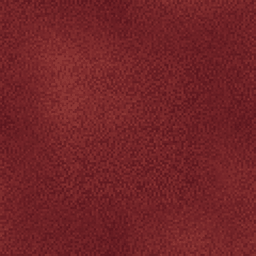
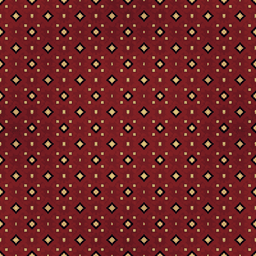
세계 지도 다시 그린 4장 적용 (0.52.123): 실베르 frozenMud 땅 결 넣음 · leafPath·carpet 자르기 없이 그대로 · 철길 한 줄 그림으로 railTrack

diff --git a/apps/client/src/patchNotes/latest.ts b/apps/client/src/patchNotes/latest.ts
@@ -7,9 +7,9 @@ export const NOTES: PatchNote[] = [
     version: "0.52.123",
     date: "2026-11-14",
     items: {
-      ko: ["세계 지도(시험 중): 건물 안 그림 적용 — 나무·돌·철판 바닥 · 회벽·돌벽 · 붉은 카펫 · 침대·탁자·책장·벽난로·왕좌·긴 식탁·갑옷·기둥·술통·화분·계산대·진열장·무기 걸이·허수아비 (성채·궁전은 돌벽, 공방은 철판, 비르디아 성은 흰 돌바닥, 헬리오스 술집은 술집 나무 바닥·둥근 탁자·바 카운터·돌 벽난로)", "테라코어: 도시 바닥 기름 묻은 돌길·바깥 길 붉은 벽돌·철길 그림 · 광장 가스 가로등과 공장 마당 톱니 기계·증기 탱크·크레인·경비 로봇·파이프·상자 · 역 열차 칸", "비르디아: 성채가 엘프 성 그림으로 · 낙엽 땅 길·맑은 샘물 · 깊은 숲에 빛나는 버드나무 · 성 안 뜰 랜턴 기둥·빛나는 버섯·수풀·꽃 덤불 · 헬리오스 황금 분수·검은 제단·황제 석상 그림"],
-      en: ["World Map (testing): interior art — wood, stone and steel floors · plaster and stone walls · red carpets · beds, tables, bookshelves, fireplaces, thrones, a banquet table, armor stands, pillars, barrels, potted plants, counters, display shelves, weapon racks and dummies (stone walls in keeps and palaces, steel in the workshop, white stone in Virdia's castle, and tavern floorboards, round tables, a bar counter and a stone fireplace in the Helios tavern)", "Terracore: oily cobblestone city streets, red brick roads and railway art · gas street lamps on the square and gear machines, steam tanks, cranes, guard robots, pipes and crates in the factory yards · a cargo car at the station", "Virdia: the keep is now an elven castle · leafy paths and a clear spring · glowing willows in the deep forest · lantern posts, glowing mushrooms, ferns and flowering bushes in the castle grounds · Helios golden fountains, the black altar and the emperor statue now use art"],
-      ja: ["世界地図（テスト中）：建物の中の絵を適用 — 木・石・鉄板の床・漆喰と石の壁・赤いカーペット・ベッド・テーブル・本棚・暖炉・玉座・長い食卓・鎧・柱・酒樽・鉢植え・カウンター・陳列棚・武器掛け・かかし（城館・宮殿は石の壁、工房は鉄板、ヴィルディアの城は白い石の床、ヘリオスの酒場は酒場の木の床・丸テーブル・バーカウンター・石の暖炉）", "テラコア：街の床は油じみた石畳・外の道は赤レンガ・線路の絵・広場のガス灯と工場の庭の歯車機械・蒸気タンク・クレーン・警備ロボット・パイプ・木箱・駅の貨車", "ヴィルディア：城館がエルフの城の絵に・落ち葉の道・澄んだ泉・深い森に光る柳・城の庭のランタン柱・光るキノコ・シダ・花の茂み・ヘリオスの黄金の噴水・黒い祭壇・皇帝像の絵"],
+      ko: ["세계 지도(시험 중): 건물 안 그림 적용 — 나무·돌·철판 바닥 · 회벽·돌벽 · 붉은 카펫 · 침대·탁자·책장·벽난로·왕좌·긴 식탁·갑옷·기둥·술통·화분·계산대·진열장·무기 걸이·허수아비 (성채·궁전은 돌벽, 공방은 철판, 비르디아 성은 흰 돌바닥, 헬리오스 술집은 술집 나무 바닥·둥근 탁자·바 카운터·돌 벽난로)", "테라코어: 도시 바닥 기름 묻은 돌길·바깥 길 붉은 벽돌·철길 그림 · 광장 가스 가로등과 공장 마당 톱니 기계·증기 탱크·크레인·경비 로봇·파이프·상자 · 역 열차 칸", "비르디아: 성채가 엘프 성 그림으로 · 낙엽 땅 길·맑은 샘물 · 깊은 숲에 빛나는 버드나무 · 성 안 뜰 랜턴 기둥·빛나는 버섯·수풀·꽃 덤불 · 헬리오스 황금 분수·검은 제단·황제 석상 그림 · 실베르 얼어붙은 진흙 땅 그림"],
+      en: ["World Map (testing): interior art — wood, stone and steel floors · plaster and stone walls · red carpets · beds, tables, bookshelves, fireplaces, thrones, a banquet table, armor stands, pillars, barrels, potted plants, counters, display shelves, weapon racks and dummies (stone walls in keeps and palaces, steel in the workshop, white stone in Virdia's castle, and tavern floorboards, round tables, a bar counter and a stone fireplace in the Helios tavern)", "Terracore: oily cobblestone city streets, red brick roads and railway art · gas street lamps on the square and gear machines, steam tanks, cranes, guard robots, pipes and crates in the factory yards · a cargo car at the station", "Virdia: the keep is now an elven castle · leafy paths and a clear spring · glowing willows in the deep forest · lantern posts, glowing mushrooms, ferns and flowering bushes in the castle grounds · Helios golden fountains, the black altar and the emperor statue now use art · frozen mud ground art in Silber"],
+      ja: ["世界地図（テスト中）：建物の中の絵を適用 — 木・石・鉄板の床・漆喰と石の壁・赤いカーペット・ベッド・テーブル・本棚・暖炉・玉座・長い食卓・鎧・柱・酒樽・鉢植え・カウンター・陳列棚・武器掛け・かかし（城館・宮殿は石の壁、工房は鉄板、ヴィルディアの城は白い石の床、ヘリオスの酒場は酒場の木の床・丸テーブル・バーカウンター・石の暖炉）", "テラコア：街の床は油じみた石畳・外の道は赤レンガ・線路の絵・広場のガス灯と工場の庭の歯車機械・蒸気タンク・クレーン・警備ロボット・パイプ・木箱・駅の貨車", "ヴィルディア：城館がエルフの城の絵に・落ち葉の道・澄んだ泉・深い森に光る柳・城の庭のランタン柱・光るキノコ・シダ・花の茂み・ヘリオスの黄金の噴水・黒い祭壇・皇帝像の絵・シルベルの凍った泥の地面の絵"],
     },
   },
   {

diff --git a/scripts/art/world_art.py b/scripts/art/world_art.py
@@ -25,12 +25,8 @@ def src_of(kind, name):
 
 TEX = ["grass", "path", "sand", "water", "deep", "field", "floor", "snow", "wallTop", "wallFace", "bridge", "marble", "redBrick", "goldStone", "metalFloor", "forestFloor", "dune", "gravel", "cracked", "oasis", "buriedRoad", "deepSnow", "ice", "snowStone", "thickWall", "wetStone", "dockPlank", "beach", "sea", "ocean",
        # 0.52.123: 나라마다 바꿔 끼우는 땅 결(Region.skin) · 건물 안 바닥
-       "cobbleOil", "brickRed", "moss", "leafPath", "elfStone", "spring", "tavernWood", "woodFloor", "stoneFloor", "carpet", "metalFloorIn"]  # frozenMud: 반복 무늬가 티 나서 뺌 (다시 만들면 넣기)
+       "cobbleOil", "brickRed", "moss", "leafPath", "elfStone", "spring", "tavernWood", "woodFloor", "stoneFloor", "carpet", "metalFloorIn", "frozenMud"]
 TEX_PX = 256
-# 그림 하나처럼 나온 땅 결은 고른 부분만 잘라 씀 (원본 비율 x0, y0, x1, y1)
-CROP = {"carpet": (0.2, 0.2, 0.8, 0.8)}
-# 세로 띠로 나온 땅 결: 고른 띠(원본 비율 x0, x1)를 원래 축척으로 가로로 이어 붙여 정사각형으로
-STRIP = {"leafPath": (0.0, 0.31)}
 # 벽 앞면: 한 칸(64픽셀)에 그림 전체, 가로로만 이어지게 → 실내 벽 앞면 칸마다
 WALL = ["innerWall", "stoneWallIn"]
 WALL_PX = 64
@@ -105,18 +101,6 @@ def make_tex(name):
     if not src.exists():
         return False
     img = Image.open(src).convert("RGB")
-    if name in CROP:
-        c = CROP[name]
-        img = img.crop((round(c[0] * img.width), round(c[1] * img.height), round(c[2] * img.width), round(c[3] * img.height)))
-    if name in STRIP:
-        x0, x1 = STRIP[name]
-        band = img.crop((round(x0 * img.width), 0, round(x1 * img.width), img.height))
-        bw = max(8, round(band.width * TEX_PX / img.height))
-        band = seamless(band.resize((bw, bw), Image.Resampling.LANCZOS), only_x=True).resize((bw, TEX_PX), Image.Resampling.LANCZOS)
-        full = Image.new("RGB", (bw * -(-TEX_PX // bw), TEX_PX))
-        for i in range(0, full.width, bw):
-            full.paste(band, (i, 0))
-        img = full.resize((TEX_PX, TEX_PX), Image.Resampling.LANCZOS)
     s = min(img.size)
     img = img.crop(((img.width - s) // 2, (img.height - s) // 2, (img.width + s) // 2, (img.height + s) // 2))
     wall = name in WALL
@@ -128,13 +112,13 @@ def make_tex(name):
 
 
 def make_rail():
-    """철길 한 줄: 테라코어 rail.png 가운데 철길(침목 3개 주기)만 잘라 한 칸(64픽셀) 세로 철길 → tex/railTrack (가로는 게임이 돌려 그림)"""
+    """철길 한 줄: 테라코어 rail.png(가운데 선로 한 줄, 침목 256픽셀 주기) 가운데만 침목 3개 높이로 잘라 한 칸(64픽셀) 세로 철길 → tex/railTrack (가로는 게임이 돌려 그림)"""
     src = src_of("땅", "rail")
     if not src.exists():
         return False
     img = Image.open(src).convert("RGB")
     k = img.width / 2048
-    img = img.crop((round(640 * k), 0, round(1400 * k), round(768 * k))).resize((WALL_PX, WALL_PX), Image.Resampling.LANCZOS)
+    img = img.crop((round(576 * k), 0, round(1472 * k), round(768 * k))).resize((WALL_PX, WALL_PX), Image.Resampling.LANCZOS)
     quantize(tone(img, TONE_TEX).convert("RGBA"), 48).save(PUB / "tex" / "railTrack.png", optimize=True)
     return True
 

diff --git a/docs/WORLD_ART.md b/docs/WORLD_ART.md
@@ -2,7 +2,7 @@
 
 > 작성 2026-11-14 (한국 시간) · 상태: **진행 중** — 그림은 계속 만드는 중이고, 만든 것 중 지도에 쓸 곳이 있는 것부터 넣음 (2026-11-14 사용자: 미리 넣어도 됨, 나중에 다시 만들면 바꿈)
 >
-> 들어간 것 (0.52.119): 아스칼론 땅 결 전부·물건(나무·바위·집·동굴·표지판) · 헬리오스 marble·redBrick·goldStone·palace(궁전·제국 집) · 테라코어 metalFloor·factories(공장) · 비르디아 forestFloor·giantTrees(세계수)·elfCastle(나무 집) · 사막 땅 결 전부·desertPlants·ruins (0.52.120, 장식 deco) · 실베르 deepSnow·ice·snowStone·thickWall·northTrees(눈 침엽수 칸)·defense·battleScars (0.52.121) — frozenMud는 반복 무늬가 티 나서 뺌 · 탈라시아 땅 결 전부·ships·harbor·portProps (0.52.122) · 건물 안 바닥·벽·가구 전부·술집 그림·테라코어 cobbleOil·brickRed·rail(가운데 한 줄만 잘라 `railTrack`)·machines·cityProps·비르디아 leafPath(왼쪽 낙엽 띠만)·spring·elfCastle·forestProps·버드나무·헬리오스 imperialProps(깃발 빼고) (0.52.123) — 나라마다 바꿔 끼우기는 장소 표의 `Region.skin`(기본 이름 → 그림 이름, `places/skins`) · 큰 건물은 칸마다 잘라 그림(`worldTex.blockObj`) · 지도가 아직 없어서 안 쓴 것: 성국·지옥·해저·바람골·사이버펑크 전부·새벽의 성흔 아지트(hideoutProps 지도 탁자·감방, tavernOutside, cellarStone)·성당 가구·doorMat · 쓸 곳이 없어 뺀 것: moss(돌이 거품처럼 보임)·grate·frozenMud·공장 굴뚝 탑·창고·뿌리 아치·높은 문 · 예전 메모: 성문·버드나무·뿌리 아치·굴뚝·창고·엘프 성·나머지 땅 결(지도 칸이 생기면) · 손질: `python3 scripts/art/world_art.py [이름…]`
+> 들어간 것 (0.52.119): 아스칼론 땅 결 전부·물건(나무·바위·집·동굴·표지판) · 헬리오스 marble·redBrick·goldStone·palace(궁전·제국 집) · 테라코어 metalFloor·factories(공장) · 비르디아 forestFloor·giantTrees(세계수)·elfCastle(나무 집) · 사막 땅 결 전부·desertPlants·ruins (0.52.120, 장식 deco) · 실베르 deepSnow·ice·snowStone·thickWall·northTrees(눈 침엽수 칸)·defense·battleScars (0.52.121) — frozenMud는 반복 무늬가 티 나서 뺌 · 탈라시아 땅 결 전부·ships·harbor·portProps (0.52.122) · 건물 안 바닥·벽·가구 전부·술집 그림·테라코어 cobbleOil·brickRed·rail(한 칸 철길 `railTrack`, 침목 3개 높이)·machines·cityProps·비르디아 leafPath·spring·elfCastle·forestProps·버드나무·헬리오스 imperialProps(깃발 빼고) · 실베르 frozenMud (0.52.123) — 나라마다 바꿔 끼우기는 장소 표의 `Region.skin`(기본 이름 → 그림 이름, `places/skins`) · 큰 건물은 칸마다 잘라 그림(`worldTex.blockObj`) · 지도가 아직 없어서 안 쓴 것: 성국·지옥·해저·바람골·사이버펑크 전부·새벽의 성흔 아지트(hideoutProps 지도 탁자·감방, tavernOutside, cellarStone)·성당 가구·doorMat · 쓸 곳이 없어 뺀 것: moss(돌이 거품처럼 보임)·grate·공장 굴뚝 탑·창고·뿌리 아치·높은 문 · 예전 메모: 성문·버드나무·뿌리 아치·굴뚝·창고·엘프 성·나머지 땅 결(지도 칸이 생기면) · 손질: `python3 scripts/art/world_art.py [이름…]`
 
 지금 세계 지도는 코드로 그린 그림(A안)입니다. 아래 그림을 만들어 올리면 **올린 것만** 그 그림으로 바뀌고, 나머지는 그대로 코드 그림입니다 (하나씩 넣어도 됨).
 
